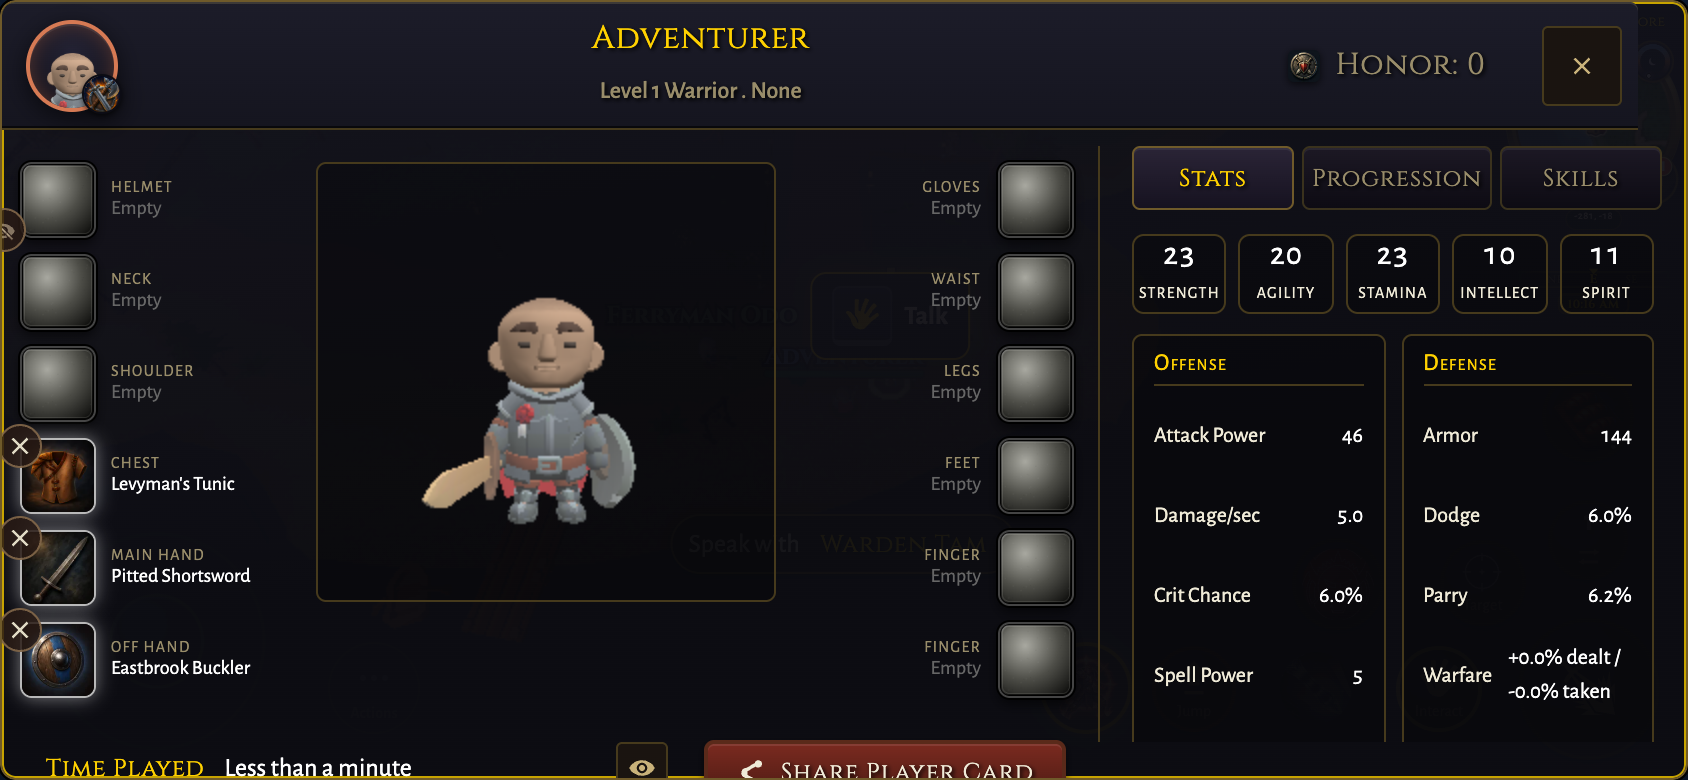
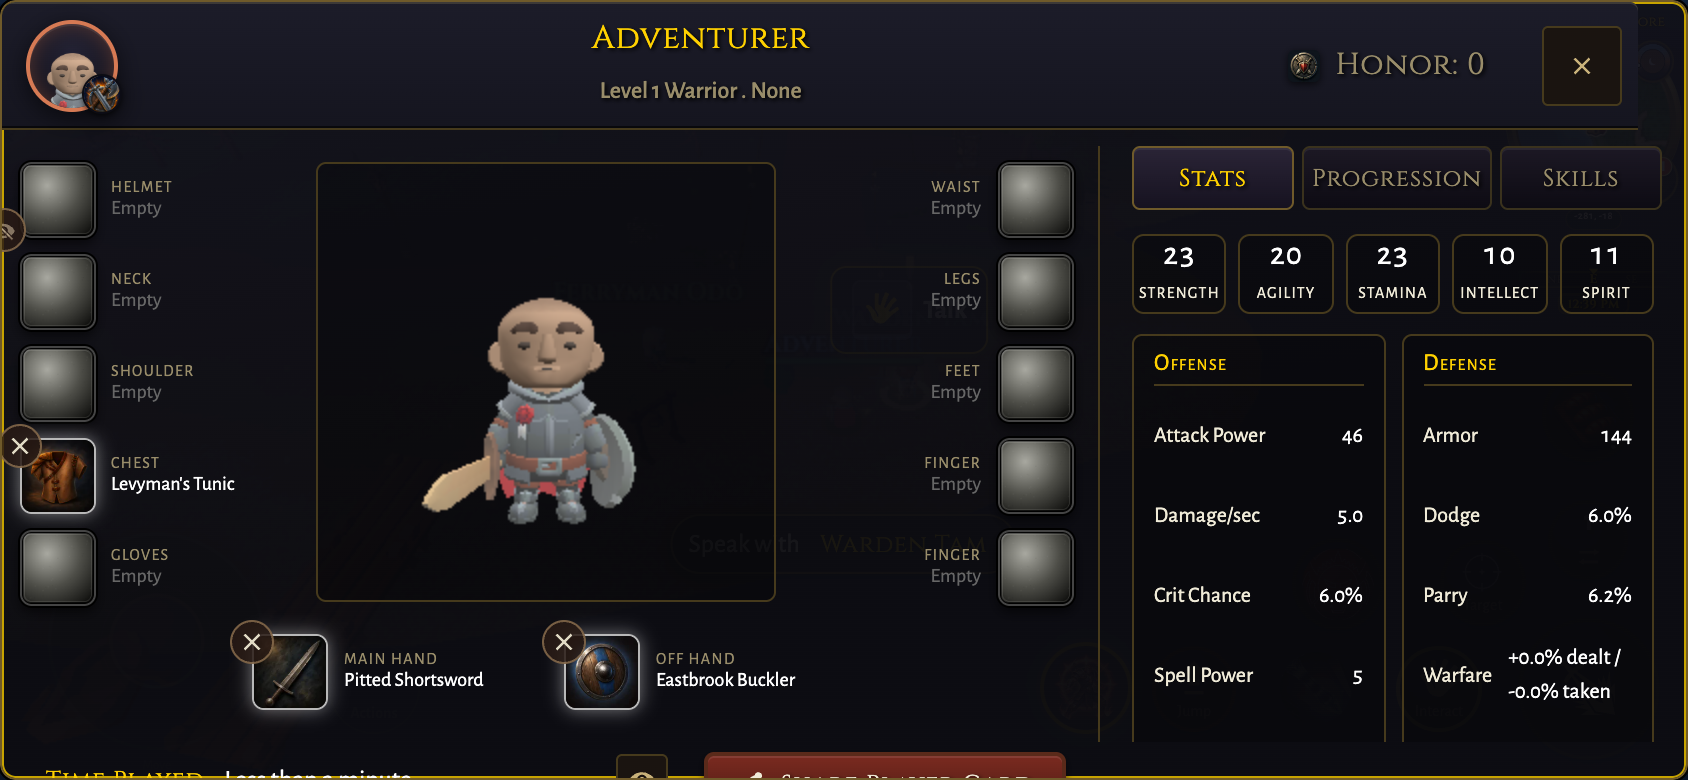
feat(hud): spread the paperdoll columns and seat the weapons under the model
Review round 2: the equipment sockets clustered at the top of the full
height stage and the weapon hands sat in the left column. The paperdoll
view now splits armor 5/5 (head to hands, waist to rings) and hands the
two weapon slots to their own row, which the character window seats
centred along the stage bottom above the skin row while the columns span
the stage height with even spacing. The row wraps under the paperdoll on
the touch sheet and in the inspect window, whose columns stretch beside
the tall inspect stage the same way. DESIGN.md 8.2 and the character
screenshots follow.

diff --git a/tests/char_view.test.ts b/tests/char_view.test.ts
@@ -8,6 +8,7 @@ import {
   CHARACTER_SIDEBAR_TABS,
   PAPERDOLL_LEFT_SLOTS,
   PAPERDOLL_RIGHT_SLOTS,
+  PAPERDOLL_WEAPON_SLOTS,
 } from '../src/ui/char_view';
 
 const FULL: Partial<Record<EquipSlot, string>> = {
@@ -22,44 +23,24 @@ const FULL: Partial<Record<EquipSlot, string>> = {
 };
 
 describe('char_view: paperdoll data model', () => {
-  it('lays two balanced 6/6 columns: head/neck/shoulder/chest/mainhand/offhand, then hands/waist/legs/feet/rings', () => {
-    // Showcase redesign: the offhand moved from the tail of the RIGHT column to
-    // the end of the LEFT column (under Main Hand), balancing the paperdoll to
-    // 6/6 so both bands flank the fixed-width model stage evenly. Inspect inherits
-    // this since it reuses these arrays via buildPaperdollView.
-    expect(PAPERDOLL_LEFT_SLOTS).toEqual([
-      'helmet',
-      'neck',
-      'shoulder',
-      'chest',
-      'mainhand',
-      'offhand',
-    ]);
-    expect(PAPERDOLL_RIGHT_SLOTS).toEqual(['gloves', 'waist', 'legs', 'feet', 'ring1', 'ring2']);
+  it('lays two 5/5 armor columns (head to hands, waist to rings) with the weapon hands in their own row', () => {
+    // Showcase redesign: the weapon hands left the columns for a centered row
+    // under the model stage, so the two armor bands flank the stage evenly at
+    // 5/5. Inspect inherits this since it reuses these arrays via buildPaperdollView.
+    expect(PAPERDOLL_LEFT_SLOTS).toEqual(['helmet', 'neck', 'shoulder', 'chest', 'gloves']);
+    expect(PAPERDOLL_RIGHT_SLOTS).toEqual(['waist', 'legs', 'feet', 'ring1', 'ring2']);
+    expect(PAPERDOLL_WEAPON_SLOTS).toEqual(['mainhand', 'offhand']);
   });
 
   it('resolves every equipped slot to its item, in column order', () => {
     const view = buildPaperdollView(FULL, ITEMS);
-    expect(view.left.map((c) => c.slot)).toEqual([
-      'helmet',
-      'neck',
-      'shoulder',
-      'chest',
-      'mainhand',
-      'offhand',
-    ]);
-    expect(view.right.map((c) => c.slot)).toEqual([
-      'gloves',
-      'waist',
-      'legs',
-      'feet',
-      'ring1',
-      'ring2',
-    ]);
+    expect(view.left.map((c) => c.slot)).toEqual(['helmet', 'neck', 'shoulder', 'chest', 'gloves']);
+    expect(view.right.map((c) => c.slot)).toEqual(['waist', 'legs', 'feet', 'ring1', 'ring2']);
+    expect(view.weapons.map((c) => c.slot)).toEqual(['mainhand', 'offhand']);
     expect(view.left[0].item).toBe(ITEMS.cryptbone_helm);
-    expect(view.left[4].item).toBe(ITEMS.worn_sword);
-    expect(view.left[5].item).toBeNull(); // offhand: unequipped in FULL, now the left tail
-    expect(view.right[3].item).toBe(ITEMS.oiled_boots);
+    expect(view.weapons[0].item).toBe(ITEMS.worn_sword);
+    expect(view.weapons[1].item).toBeNull(); // offhand: unequipped in FULL
+    expect(view.right[2].item).toBe(ITEMS.oiled_boots);
   });
 
   it('resolves jewelry slots: neck in the left column, both rings in the right', () => {
@@ -72,8 +53,8 @@ describe('char_view: paperdoll data model', () => {
       ITEMS,
     );
     expect(view.left[1].item).toBe(ITEMS.yumis_keepsake_locket);
-    expect(view.right[4].item).toBe(ITEMS.seal_of_the_nine_oaths);
-    expect(view.right[5].item).toBe(ITEMS.nielas_coldlight_band);
+    expect(view.right[3].item).toBe(ITEMS.seal_of_the_nine_oaths);
+    expect(view.right[4].item).toBe(ITEMS.nielas_coldlight_band);
   });
 
   it('renders an empty cell for an unequipped slot or an unknown item id', () => {
@@ -105,12 +86,13 @@ describe('char_view: paperdoll data model', () => {
       rolled: { quality: 'legendary' },
     });
     expect(view.left[0].instance).not.toBe(promoted); // a projection, not the raw handle
-    expect(view.left[4].instance).toBeNull(); // mainhand: worn, no payload
+    expect(view.weapons[0].instance).toBeNull(); // mainhand: worn, no payload
     // The def-only negative: no instances argument (a caller with no payloads
     // in hand) resolves every cell payload-free, byte for byte the old model.
     const defOnly = buildPaperdollView(FULL, ITEMS);
     expect(defOnly.left.every((c) => c.instance === null)).toBe(true);
     expect(defOnly.right.every((c) => c.instance === null)).toBe(true);
+    expect(defOnly.weapons.every((c) => c.instance === null)).toBe(true);
     // An empty slot never carries a payload, even if the record has a stale
     // entry for it (the item gate runs first).
     const stale = buildPaperdollView({ chest: 'no_such_item' }, ITEMS, {

diff --git a/src/styles/components.css b/src/styles/components.css
@@ -1413,9 +1413,19 @@
      .equip-col / .equip-slot (inspect layout overrides live in shell.css). */
   .paperdoll {
     display: flex;
+    flex-wrap: wrap;
     gap: 18px;
     align-items: flex-start;
     padding-top: 12px;
+  }
+  /* The weapon hands sit in their own centered row under the stage; it wraps to a
+     full-width line of the flex row so the columns above keep their bands. */
+  .equip-row-weapons {
+    display: flex;
+    justify-content: center;
+    gap: 18px;
+    flex: 1 0 100%;
+    min-width: 0;
   }
   .equip-col {
     display: flex;
@@ -1726,12 +1736,35 @@
      shrink-wraps its 114px row unit (40px socket + gap + 70px text box). */
   body:not(.mobile-touch) #char-window .equip-col {
     position: absolute;
-    top: 0;
+    top: var(--spacing-sm);
+    bottom: var(--paperdoll-stage-foot-h);
+    justify-content: space-evenly;
     z-index: 1;
     flex: none;
     width: auto;
     padding: var(--spacing-xs);
     border-radius: var(--radius-window);
+  }
+  /* The weapon hands seat centered along the stage's bottom, just above the skin
+     row; with no skins to pick they drop to the stage edge and the columns follow. */
+  body:not(.mobile-touch) #char-window .equip-row-weapons {
+    position: absolute;
+    left: 50%;
+    bottom: var(--paperdoll-skin-row-h);
+    transform: translateX(-50%);
+    z-index: 1;
+    flex: none;
+    width: auto;
+    gap: var(--spacing-md);
+    padding: var(--spacing-xs) var(--spacing-sm);
+    border-radius: var(--radius-window);
+    background: linear-gradient(to top, var(--color-stage-overlay-scrim), transparent);
+  }
+  body:not(.mobile-touch) #char-window .paperdoll:has(.char-skin-row:empty) .equip-row-weapons {
+    bottom: var(--spacing-sm);
+  }
+  body:not(.mobile-touch) #char-window .paperdoll:has(.char-skin-row:empty) .equip-col {
+    bottom: calc(var(--paperdoll-weapons-row-h) + 3 * var(--spacing-sm));
   }
   /* Inset by the chip radius so the outer corner chips still land on the stage
      rather than hanging over the window's own padding. */
@@ -1758,6 +1791,9 @@
     .equip-slot
     :is(.equip-unequip-btn, .equip-helm-eye) {
     right: calc(50% - 68px);
+  }
+  body:not(.mobile-touch) #char-window .equip-row-weapons .equip-slot .equip-unequip-btn {
+    left: calc(50% - 68px);
   }
   #char-window .char-sidebar {
     display: flex;
@@ -16326,6 +16362,9 @@
   }
   .equip-col-right .equip-slot .equip-unequip-btn {
     right: calc(50% - 88px);
+  }
+  .equip-row-weapons .equip-slot .equip-unequip-btn {
+    left: calc(50% - 88px);
   }
   .equip-slot:hover .equip-unequip-btn,
   .equip-slot:focus-within .equip-unequip-btn,

diff --git a/tests/char_window.test.ts b/tests/char_window.test.ts
@@ -1285,7 +1285,7 @@ describe('char_window: the model is the stage and the sockets overlay it (W24)',
 
   it('floats both socket columns over the stage, one on each outer edge', () => {
     expect(css).toContain(
-      'body:not(.mobile-touch) #char-window .equip-col {\n    position: absolute;\n    top: 0;',
+      'body:not(.mobile-touch) #char-window .equip-col {\n    position: absolute;\n    top: var(--spacing-sm);',
     );
     expect(css).toMatch(
       /body:not\(\.mobile-touch\) #char-window \.equip-col:not\(\.equip-col-right\) \{\s*left: var\(--spacing-sm\);/,
@@ -1295,6 +1295,25 @@ describe('char_window: the model is the stage and the sockets overlay it (W24)',
     );
     // The overlay needs its own scrim token: slot names sit over a lit model.
     expect(css).toContain('var(--color-stage-overlay-scrim)');
+  });
+
+  it('spreads the socket columns over the stage height and seats the weapons at its bottom centre', () => {
+    // Review round 2: the columns span from the top of the stage down to the
+    // weapons seat and space their rows evenly, and the two weapon hands sit in
+    // their own centred row above the skin row (or at the stage edge without one).
+    expect(css).toContain(
+      'body:not(.mobile-touch) #char-window .equip-col {\n    position: absolute;\n    top: var(--spacing-sm);\n    bottom: var(--paperdoll-stage-foot-h);\n    justify-content: space-evenly;',
+    );
+    expect(css).toContain(
+      'body:not(.mobile-touch) #char-window .equip-row-weapons {\n    position: absolute;\n    left: 50%;\n    bottom: var(--paperdoll-skin-row-h);\n    transform: translateX(-50%);',
+    );
+    expect(css).toContain(
+      'body:not(.mobile-touch) #char-window .paperdoll:has(.char-skin-row:empty) .equip-row-weapons {\n    bottom: var(--spacing-sm);',
+    );
+    // The row is a wrapped full-width line of the shared paperdoll flex row, so
+    // the touch sheet and the inspect window get it in flow for free.
+    expect(css).toContain('.paperdoll {\n    display: flex;\n    flex-wrap: wrap;');
+    expect(css).toContain('.equip-row-weapons {\n    display: flex;\n    justify-content: center;');
   });
 
   it('re-anchors the unequip and helm-eye chips to the narrower overlay row unit', () => {

diff --git a/src/ui/char_view.ts b/src/ui/char_view.ts
@@ -37,6 +37,7 @@ export interface PaperdollSlot {
 export interface PaperdollView {
   left: PaperdollSlot[];
   right: PaperdollSlot[];
+  weapons: PaperdollSlot[];
 }
 
 export type CharacterSidebarTab = 'stats' | 'progression' | 'skills';
@@ -62,28 +63,25 @@ export function buildCharacterSidebarView(selected: string | null): CharacterSid
   };
 }
 
-// Two balanced 6/6 columns flanking the model, like the classic character sheet:
-// the left column holds head/neck/shoulder/chest plus both weapon hands (mainhand
-// then offhand); the right column holds the hands/waist/legs/feet quartet with the
-// two ring slots at the bottom. The 6/6 split (offhand under mainhand rather than
-// at the tail of the right column) keeps the two bands even on either side of the
-// fixed-width model stage; the inspect window inherits it via buildPaperdollView.
+// Two balanced 5/5 armor columns flank the model and the two weapon hands sit in
+// their own row under it (mainhand then offhand), like the classic character
+// sheet: the left column runs head to hands, the right column waist to rings.
+// The inspect window inherits the split via buildPaperdollView.
 export const PAPERDOLL_LEFT_SLOTS: readonly EquipSlot[] = [
   'helmet',
   'neck',
   'shoulder',
   'chest',
-  'mainhand',
-  'offhand',
+  'gloves',
 ];
 export const PAPERDOLL_RIGHT_SLOTS: readonly EquipSlot[] = [
-  'gloves',
   'waist',
   'legs',
   'feet',
   'ring1',
   'ring2',
 ];
+export const PAPERDOLL_WEAPON_SLOTS: readonly EquipSlot[] = ['mainhand', 'offhand'];
 
 /**
  * Build the paperdoll view from the player's equipment and the item table. A
@@ -107,5 +105,9 @@ export function buildPaperdollView(
       const instance = item ? wornTooltipInstance(instances?.[slot]) : undefined;
       return { slot, item, instance: instance ?? null };
     });
-  return { left: column(PAPERDOLL_LEFT_SLOTS), right: column(PAPERDOLL_RIGHT_SLOTS) };
+  return {
+    left: column(PAPERDOLL_LEFT_SLOTS),
+    right: column(PAPERDOLL_RIGHT_SLOTS),
+    weapons: column(PAPERDOLL_WEAPON_SLOTS),
+  };
 }

diff --git a/tests/inspect_view.test.ts b/tests/inspect_view.test.ts
@@ -6,6 +6,7 @@ import {
   buildPaperdollView,
   PAPERDOLL_LEFT_SLOTS,
   PAPERDOLL_RIGHT_SLOTS,
+  PAPERDOLL_WEAPON_SLOTS,
 } from '../src/ui/char_view';
 import { borderAccent } from '../src/ui/deed_border_view';
 import {
@@ -382,10 +383,10 @@ describe('buildInspectView: gear reuses the char_view paperdoll (no forked slot 
     const m = buildInspectView(base, ITEMS);
     // Identical to the shared core: same arrays, same empty-slot resolution.
     expect(m.gear).toEqual(buildPaperdollView(base.equippedItems, ITEMS));
-    // And the column order IS char_view's 6/6 split (offhand in the left column).
+    // And the column order IS char_view's 5/5 split with the weapon hands in their own row.
     expect(m.gear.left.map((c) => c.slot)).toEqual([...PAPERDOLL_LEFT_SLOTS]);
     expect(m.gear.right.map((c) => c.slot)).toEqual([...PAPERDOLL_RIGHT_SLOTS]);
-    expect(m.gear.left.map((c) => c.slot)).toContain('offhand');
+    expect(m.gear.weapons.map((c) => c.slot)).toEqual([...PAPERDOLL_WEAPON_SLOTS]);
     // Filled vs empty resolution.
     expect(m.gear.left[0].item).toBe(ITEMS.monarch_crown_helm);
     const emptySlots = m.gear.right.filter(
@@ -413,8 +414,8 @@ describe('buildInspectView: gear reuses the char_view paperdoll (no forked slot 
       signer: 'Maker',
     });
     // Slot-keyed, never smeared: the worn mainhand carries no payload.
-    expect(m.gear.left[4].item).toBe(ITEMS.worn_sword);
-    expect(m.gear.left[4].instance).toBeNull();
+    expect(m.gear.weapons[0].item).toBe(ITEMS.worn_sword);
+    expect(m.gear.weapons[0].instance).toBeNull();
     // The def-only negative: no instances input resolves every cell
     // payload-free, byte for byte the old model.
     const defOnly = buildInspectView(base, ITEMS);

diff --git a/src/ui/char_window.ts b/src/ui/char_window.ts
@@ -313,6 +313,7 @@ export class CharWindow {
           <div id="char-skin-row" class="skin-row char-skin-row" role="list" aria-label="${esc(t('auth.appearance'))}"></div>
         </div>
         <div class="equip-col equip-col-right" id="equip-col-right"></div>
+        <div class="equip-row-weapons" id="equip-row-weapons"></div>
       </div>${this.masterwroughtSlotsHtml(world)}<div class="ui-divider char-footer-divider"></div><footer class="char-footer">${this.playtimeHtml(world)}<div class="pc-share-row"><button type="button" class="pc-share-btn ui-btn ui-btn--red" data-act="share-card">${SHARE_GLYPH}<span>${esc(t('playerCard.shareButton'))}</span></button></div></footer></section>`;
     html += `<section class="char-sidebar">${tabStripHtml(
       tabStripModel({
@@ -383,8 +384,10 @@ export class CharWindow {
     const view = buildPaperdollView(world.equipment, ITEMS, world.equipmentInstances);
     const leftCol = el.querySelector('#equip-col-left');
     const rightCol = el.querySelector('#equip-col-right');
+    const weaponsRow = el.querySelector('#equip-row-weapons');
     for (const cell of view.left) leftCol?.appendChild(this.buildSlotRow(cell));
     for (const cell of view.right) rightCol?.appendChild(this.buildSlotRow(cell));
+    for (const cell of view.weapons) weaponsRow?.appendChild(this.buildSlotRow(cell));
 
     // A character-sheet rebuild mints new socket nodes, including after the
     // inventory-change path has synchronized the old set. Restore the active

diff --git a/src/ui/inspect_window.ts b/src/ui/inspect_window.ts
@@ -237,6 +237,7 @@ export class InspectWindow {
       `<div id="inspect-model-preview" class="char-model-preview" role="img" aria-label="${esc(t('hudChrome.character.modelPreview'))}"></div>` +
       `</div>` +
       `<div class="equip-col equip-col-right" id="inspect-equip-right"></div>` +
+      `<div class="equip-row-weapons" id="inspect-equip-weapons"></div>` +
       `</div></div>`;
     hydratePortraits(el);
     // Degrade a failed Discord avatar to the plain status badge (never the browser's
@@ -252,6 +253,8 @@ export class InspectWindow {
     const rightCol = el.querySelector('#inspect-equip-right');
     for (const cell of model.gear.left) leftCol?.appendChild(this.buildSlotRow(cell));
     for (const cell of model.gear.right) rightCol?.appendChild(this.buildSlotRow(cell));
+    const weaponsRow = el.querySelector('#inspect-equip-weapons');
+    for (const cell of model.gear.weapons) weaponsRow?.appendChild(this.buildSlotRow(cell));
     const stage = el.querySelector<HTMLElement>('#inspect-model-preview');
     if (stage) {
       this.deps.mountPreview(stage, {

diff --git a/src/styles/tokens.css b/src/styles/tokens.css
@@ -1090,6 +1090,16 @@
     /* Scrim under the paperdoll socket columns where they float over the live 3D
        stage, so slot names and item names stay legible against a lit model. */
     --color-stage-overlay-scrim: color-mix(in srgb, var(--color-keyline) 66%, transparent);
+    /* Paperdoll stage seats: the skin row (34px swatch plus its padding) and one
+       40px socket row, so the overlay columns can span the height between them. */
+    --paperdoll-skin-row-h: 48px;
+    --paperdoll-weapons-row-h: 40px;
+    --paperdoll-stage-foot-h: calc(
+      var(--paperdoll-skin-row-h) +
+      var(--paperdoll-weapons-row-h) +
+      2 *
+      var(--spacing-sm)
+    );
 
     /* unit frames */
     /* Gap between the two stock unit frames, which mirror each other around the

diff --git a/src/styles/shell.css b/src/styles/shell.css
@@ -6456,6 +6456,13 @@
       transparent
     );
   }
+  /* The armor columns stretch to the stage height and space their rows evenly,
+     so five sockets read as a band beside the tall inspect stage rather than a
+     cluster at its top. */
+  .inspect-paperdoll .equip-col {
+    align-self: stretch;
+    justify-content: space-evenly;
+  }
   /* The model stage takes the inspected player's CLASS color, delivered as the
      --inspect-class-color custom property the painter sets. Fixed width so the
      columns flex around it (the same band-centering contract as the sheet), and

diff --git a/src/styles/hud.mobile.css b/src/styles/hud.mobile.css
@@ -5878,6 +5878,9 @@
   body.mobile-touch .equip-col-right .equip-slot .equip-unequip-btn {
     right: calc(50% - 80px);
   }
+  body.mobile-touch .equip-row-weapons .equip-slot .equip-unequip-btn {
+    left: calc(50% - 80px);
+  }
   /* Stat panels: 2-column grid, 16px tile numerals. */
   body.mobile-touch .stat-panels {
     grid-template-columns: 1fr 1fr;

diff --git a/DESIGN.md b/DESIGN.md
@@ -756,12 +756,15 @@ Every window adopts the grammar; these carry specific intent:
   values; `item_compare.ts` continues to provide success and danger deltas.
   ACCEPTED DEVIATION (stage and overlay): on pointer form factors the 3D model preview is
   the full-height stage of the equipment pane, and the two equipment slot columns float
-  over its outer edges on a scrim (`--color-stage-overlay-scrim`) with the skin row along
-  the stage's bottom and the playtime and share footer pinned below. The boards drew the
-  model as a fixed narrow panel between two flowed columns, which left the pane's lower
-  half empty at every window height. Slot names, empty labels, the unequip and helm-eye
-  chips and the Masterwrought marks are unchanged; the touch sheet keeps the stacked
-  paperdoll, so the stage rules are scoped away from `body.mobile-touch`.
+  over its outer edges on a scrim (`--color-stage-overlay-scrim`), spanning the stage
+  height with their five armor sockets spaced evenly, while the two weapon hands sit in
+  their own centred row along the stage's bottom above the skin row, with the playtime and
+  share footer pinned below. The boards drew the model as a fixed narrow panel between two
+  flowed 6/6 columns, which left the pane's lower half empty at every window height. Slot
+  names, empty labels, the unequip and helm-eye chips and the Masterwrought marks are
+  unchanged; the touch sheet keeps the stacked paperdoll (the weapons row wraps under it),
+  so the stage rules are scoped away from `body.mobile-touch`. The inspect window shares
+  the split and spreads its columns beside the taller inspect stage the same way.
 - **Quest log** (`src/ui/hud/quest/questlog_window.ts`): quests group by zone. Each zone
   shows its count and has a collapse control; the detail pane keeps tracked state and
   reward sockets.
